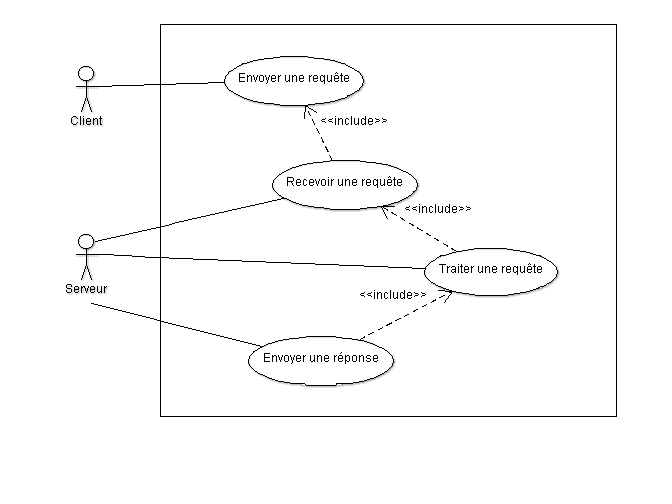
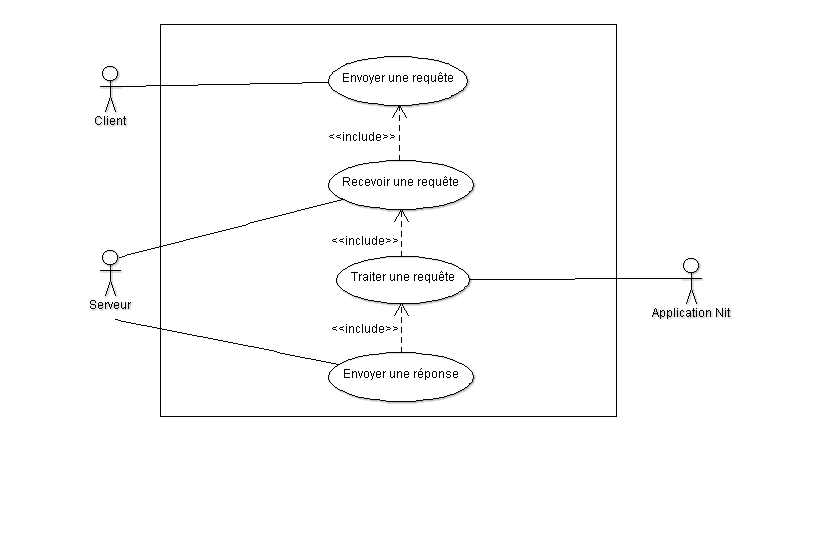
mod diagram

diff --git a/srs/srs.tex b/srs/srs.tex
@@ -452,6 +452,7 @@ Nitc ne supporte actuellement que les système de la famille linux mais il devra
 \subsection{Administrateur:} L'adminisrateur est la personne qui s'occupe de la configuration et de la maintenant d'une des applications installées sur le serveur, par exemple un site web.
 \subsection{Administrateur système:} L'administrateur système est la personne qui s'occupe de la configuration et de la maintenance du serveur et du système sur lequel est installé le serveur. C'est la personne possédant le plus de droits sur le serveur.
 \subsection{Serveur:} C'est le logiciel décrit par le présent document, soit Nitcorn.
+\subsection{Application Nit:} C'est un logiciel quelconque écrit en Nit
 
 \section{Spécification des cas d'utilisation pour le serveur} 
 À noter que nous utilisons la première personne du singulier pour représenter le serveur. De plus, chacune des fonctionnalités sont décrites sous forme de récit d'utilisateur.
@@ -636,6 +637,7 @@ Réception d'une requête HTTP par l'application Nit via l'interface de Nitcorn.
 \begin{itemize}
     \item Le serveur doit traiter la requête reçue.
 \end{itemize} 
+
 \subsubsection{Description du processus:}
 En tant qu'application Nit, je peux recevoir une requête HTTP grâce à l'interface
 serveur/application me permettant de communiquer avec le serveur
@@ -651,7 +653,7 @@ Traitement d'une requête HTTP reçue par l'application Nit.
 
 \subsubsection{Acteurs:}
 \begin{itemize}
-    \item Client 
+    \item Application Nit
     \item Serveur
 \end{itemize}
 
